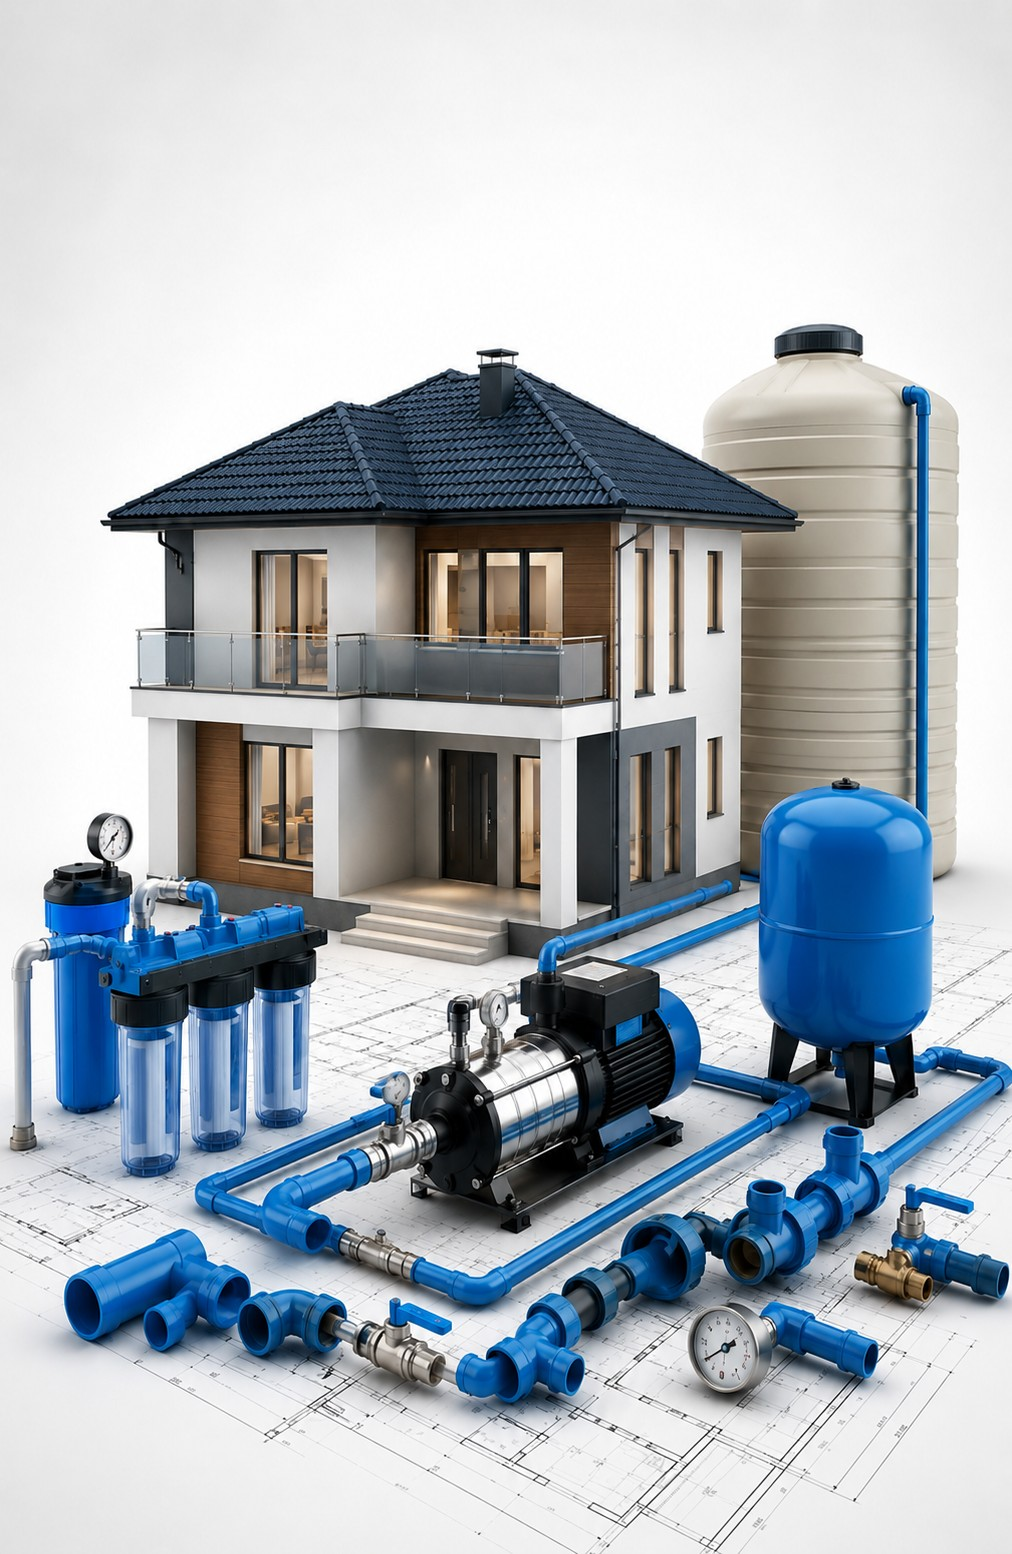
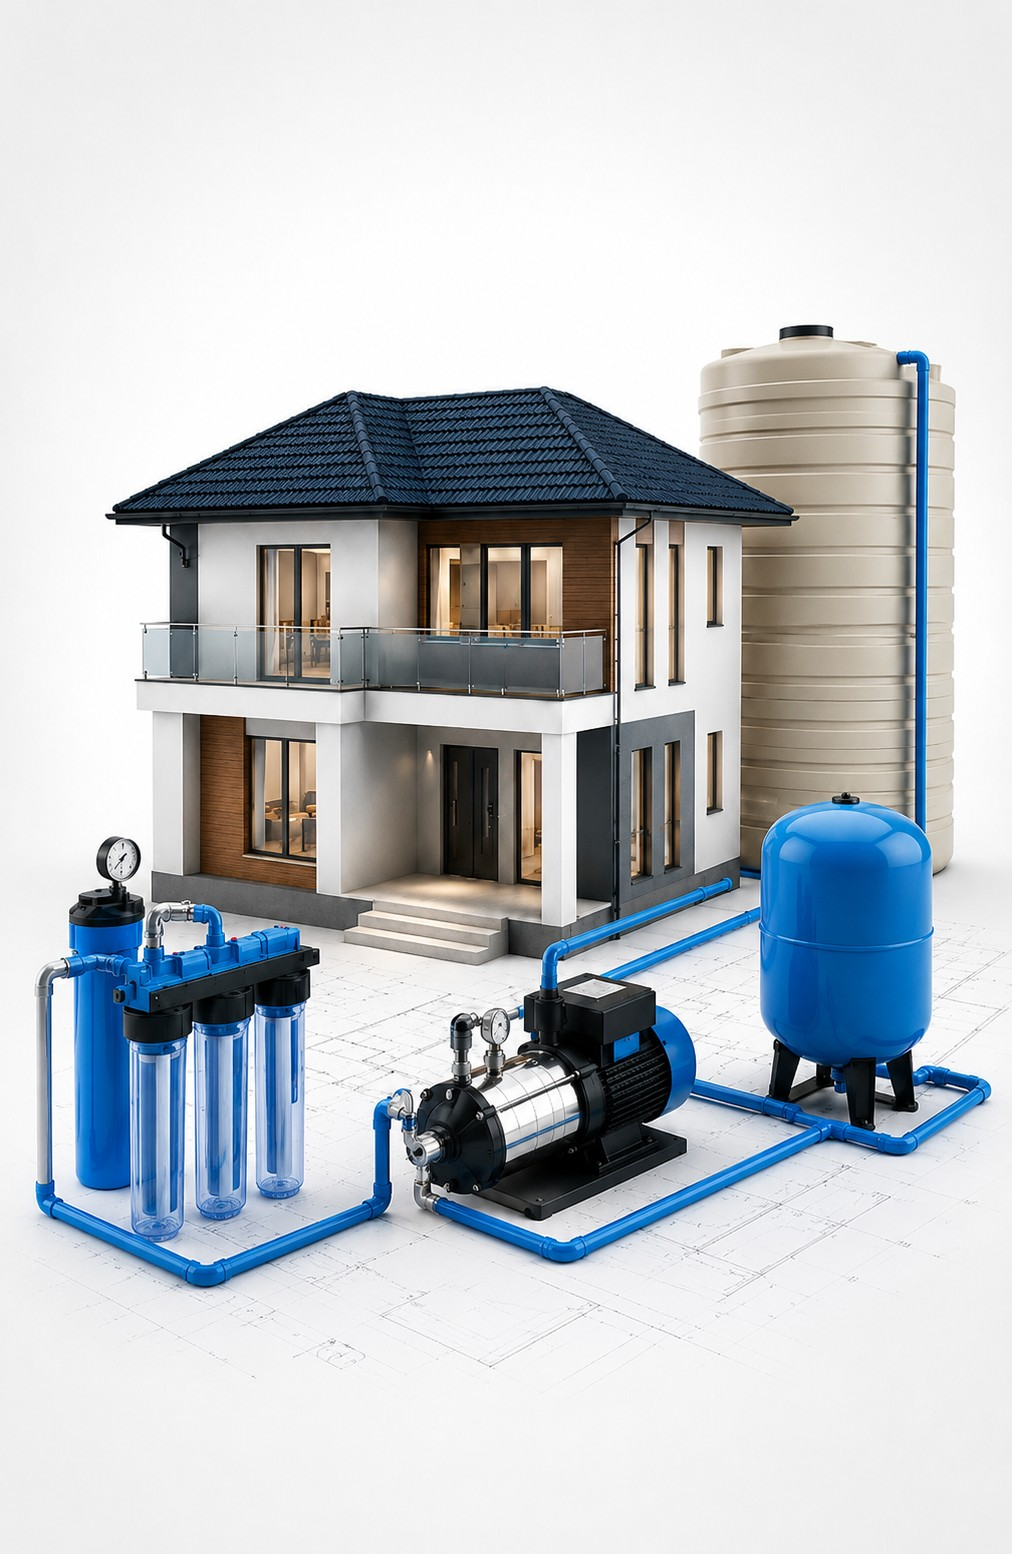
Add files via upload

diff --git a/style.css b/style.css
@@ -1587,3 +1587,25 @@ body:not(.prest-page):not(.contact-page):not(.actualites-page):not(.legal-page) 
   height: auto;
   display: block;
 }
+
+/* =========================================================
+   CORRECTIF ACCUEIL — IMAGE SURPRESSION ENTIÈRE
+   Corrige uniquement l’image de la carte Surpression
+   sur la page d’accueil.
+========================================================= */
+
+.home-page .cards-grid .service-card:nth-of-type(2) .service-card__media {
+  height: 280px;
+  padding: 10px;
+  display: flex;
+  align-items: center;
+  justify-content: center;
+  background: #fff;
+}
+
+.home-page .cards-grid .service-card:nth-of-type(2) .service-card__media img {
+  width: 100%;
+  height: 100%;
+  object-fit: contain;
+  object-position: center center;
+}

diff --git a/index.html b/index.html
@@ -73,7 +73,7 @@
 
           <article class="service-card block-orange">
             <figure class="service-card__media">
-              <img src="images/photo-de-plan-5.webp" alt="Système de surpression d’eau potable" loading="lazy">
+              <img src="images/accueil-surpression-photo-plan-1-1200.webp" alt="Système de surpression d’eau potable" loading="lazy">
             </figure>
             <div class="service-card__body">
               <h3>Surpression d’eau potable</h3>